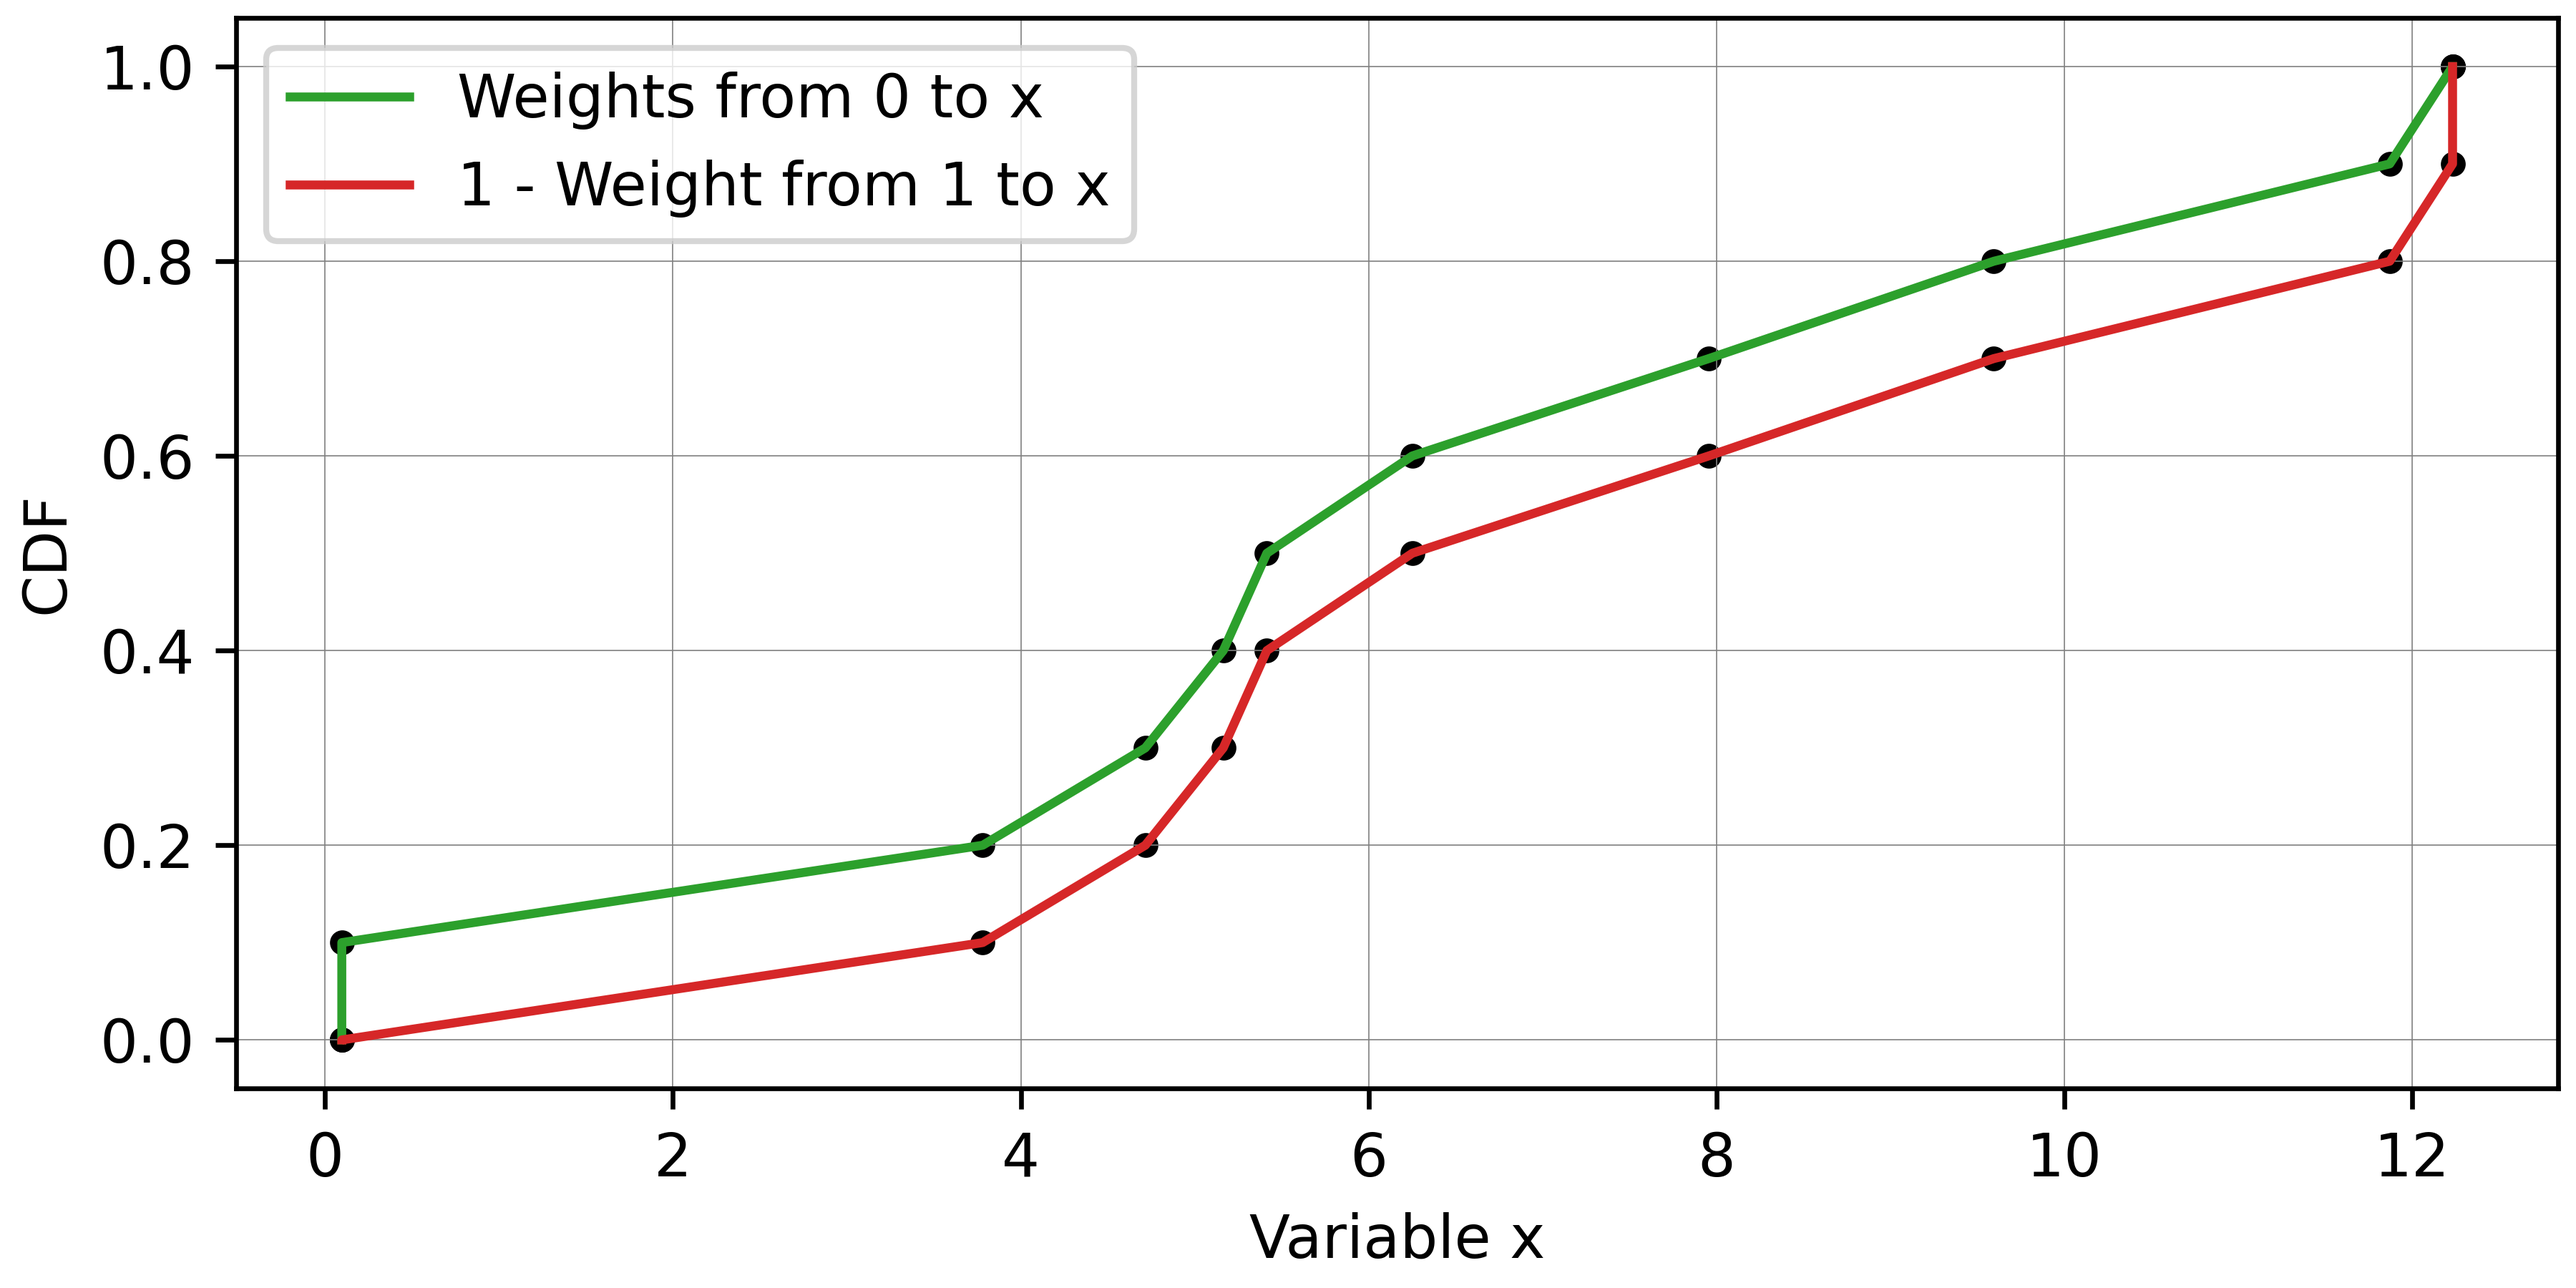
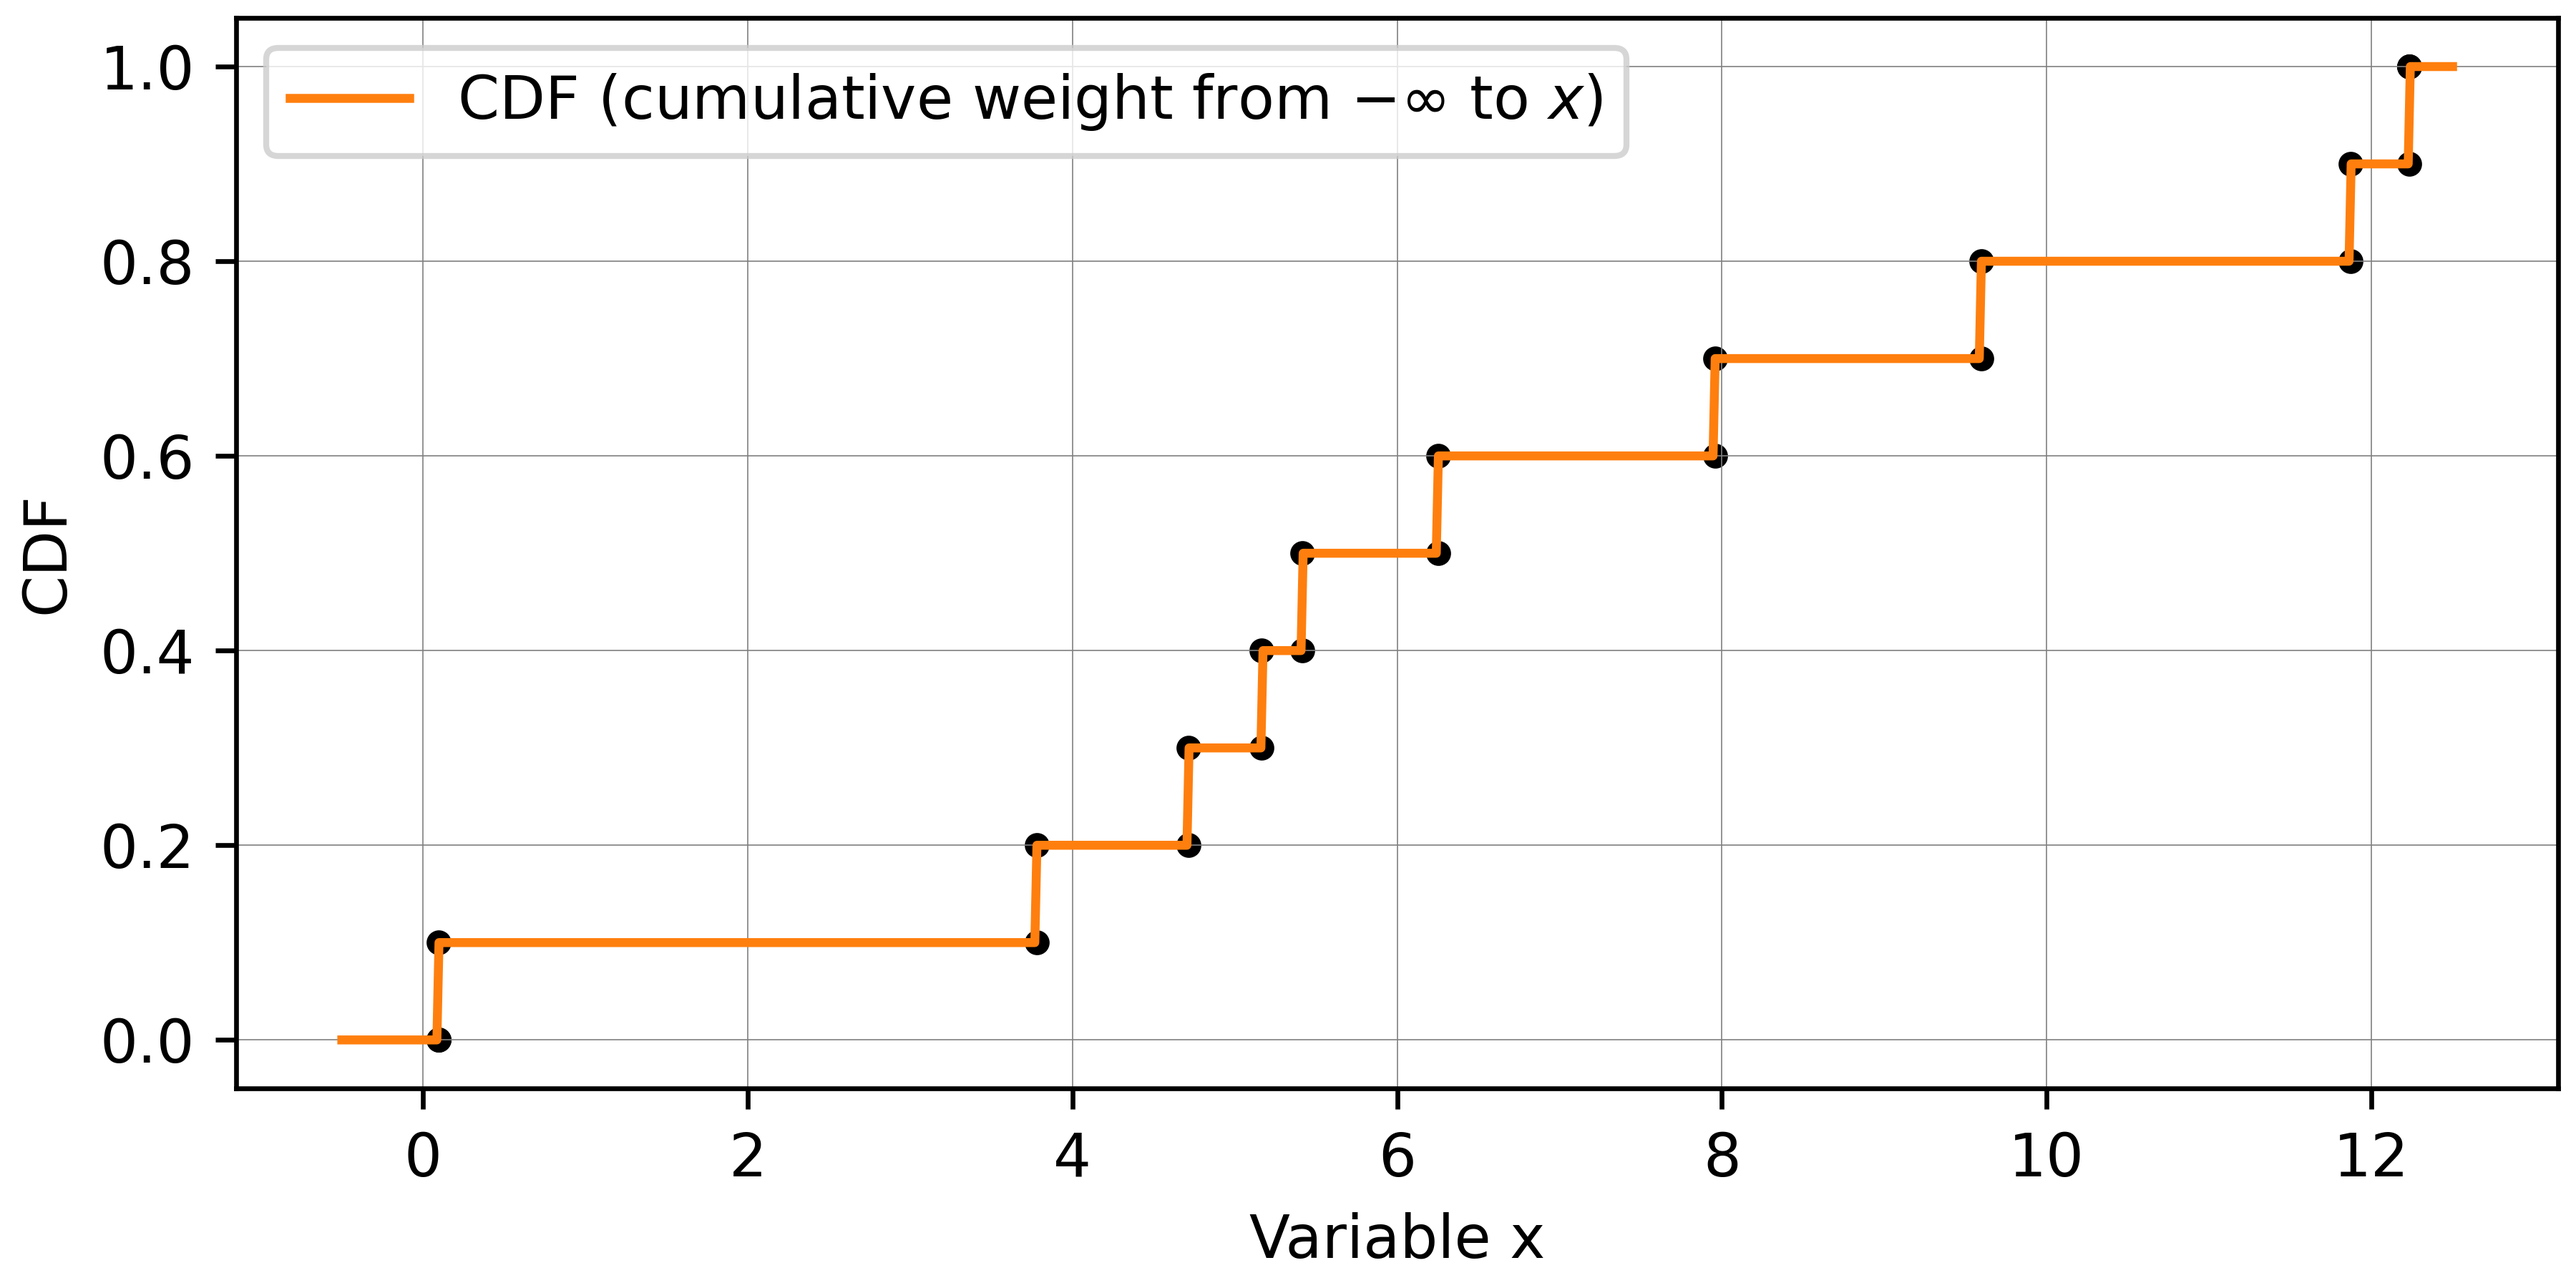
Checking CDF approximations

diff --git a/examples.py b/examples.py
@@ -5,7 +5,26 @@ import scipy.optimize as sop
 import numpy as np
 cdefault = plt.rcParams['axes.prop_cycle'].by_key()['color']
 
+import numpy as np
+from scipy.interpolate import interp1d
+from scipy.optimize import minimize_scalar
+import anesthetic
 
+def myiCDF(samples, weights=None):
+    weights = np.ones(len(samples)) if weights is None else weights
+    # Sort and normalize
+    order = np.argsort(samples)
+    samples = np.array(samples)[order]
+    weights = np.array(weights)[order]/np.sum(weights)
+    # Compute inverse cumulative distribution function
+    cumsum = np.cumsum(weights)
+    S = np.array([np.min(samples), *samples, np.max(samples)])
+    CDF = np.append(np.insert(np.cumsum(weights), 0, 0), 1)
+    invCDF = interp1d(CDF, S)
+    return invCDF
+
+def anestiCDF(samples, weights=None):
+    return anesthetic.utils.cdf(samples, weights=weights, inverse=True)
 #Code
 def credibility_interval(samples, weights=None, level=0.68):
     assert level<1, "Level >= 1!"
@@ -22,14 +41,36 @@ def credibility_interval(samples, weights=None, level=0.68):
     # Find smallest interval
     distance = lambda Y, level=level: invCDF(Y+level)-invCDF(Y)
     res = sop.minimize_scalar(distance, bounds=(0, 1-level), method="Bounded")
-    #res = sop.minimize(distance, (1-level)/2, bounds=[(0,1-level)], method="Nelder-Mead")
     return np.array([invCDF(res.x), invCDF(res.x+level)])
 
 
 # Generate data, small example
 np.random.seed(1)
 data = np.random.normal(loc=7, scale=3, size=10)
-weights = np.ones(len(data))/len(data)
+data.sort()
+weights = np.ones(10)
+#weights = np.random.normal(loc=7, scale=3, size=10)
+weights /= np.sum(weights)
+
+# Plot data v1
+fig, ax = plt.subplots(constrained_layout=True, figsize=(6, 3))
+ax.set_title("Histogram")
+ax.set_ylabel("Data samples")
+ax.set_xlabel("Variable x")
+for d in data:
+    ax.set_ylim(0, 1.65)
+    ax.axvline(d, ymin=0, ymax=1/1.65, color="black", lw=2)
+    ax.scatter(d, 0.5)
+
+for i in range(5):
+    left = data[0]+0.1 + (data[1]-data[0]-0.2)*i/4
+    right = data[8]-0.1 - (data[8]-data[7]-0.2)*i/4
+    ax.plot([left, right], [1.1+0.1*i]*2, lw=3, color=cdefault[1])
+ax.text(np.mean(data[[1,7]]), 1.52, 'Containing 70% of the data',
+    verticalalignment='bottom', horizontalalignment='center',
+    color=cdefault[1], fontsize=10)
+plt.savefig("illustrations/low_sample_example_1.png", dpi=600)
+plt.show()
 
 # Plot data
 fig, ax = plt.subplots(constrained_layout=True, figsize=(6, 3))
@@ -37,20 +78,20 @@ ax.set_title("Histogram")
 ax.set_ylabel("Number of samples")
 ax.set_xlabel("Variable x")
 for d in data:
-	ax.set_ylim(0, 1.5)
-	ax.axvline(d, ymin=0, ymax=2/3, color="black", lw=2)
-	ax.scatter(d, 0.5)
+    ax.set_ylim(0, 1.5)
+    ax.axvline(d, ymin=0, ymax=2/3, color="black", lw=2)
+    ax.scatter(d, 0.5)
 
 # Intervals
 data.sort()
 ax.plot(data[[1,6]], [1.1]*2, lw=3, color=cdefault[0])
 ax.text(np.mean(data[[1,6]]), 1.12, 'Containing 60% of the data',
-	verticalalignment='bottom', horizontalalignment='center',
-	color=cdefault[0], fontsize=8)
+    verticalalignment='bottom', horizontalalignment='center',
+    color=cdefault[0], fontsize=8)
 ax.plot(data[[1,7]], [1.3]*2, lw=3, color=cdefault[1])
 ax.text(np.mean(data[[1,7]]), 1.32, 'Containing 70% of the data',
-	verticalalignment='bottom', horizontalalignment='center',
-	color=cdefault[1], fontsize=8)
+    verticalalignment='bottom', horizontalalignment='center',
+    color=cdefault[1], fontsize=8)
 
 # Uncertainty arrows
 a = data[6]
@@ -58,60 +99,46 @@ b = data[7]
 c = data[1]
 ax.arrow(a+(b-a)/2, 1.2, (b-a)/2, 0, length_includes_head=True, color=cdefault[2], head_width=0.025, head_length=0.2, lw=2, zorder=2)
 ax.arrow(a+(b-a)/2, 1.2, (a-b)/2, 0, length_includes_head=True, color=cdefault[2], head_width=0.025, head_length=0.2, lw=2, zorder=2)
-ax.arrow(a, 0.8, 0.5, 0, length_includes_head=True, color=cdefault[3], head_width=0.025, head_length=0.2, lw=2, zorder=-2)
-ax.arrow(a, 0.8, -0.5, 0, length_includes_head=True, color=cdefault[3], head_width=0.025, head_length=0.2, lw=2, zorder=-2)
-ax.arrow(b, 0.8, 0.5, 0, length_includes_head=True, color=cdefault[3], head_width=0.025, head_length=0.2, lw=2, zorder=-2)
-ax.arrow(b, 0.8, -0.5, 0, length_includes_head=True, color=cdefault[3], head_width=0.025, head_length=0.2, lw=2, zorder=-2)
-ax.arrow(c, 0.8, 0.5, 0, length_includes_head=True, color=cdefault[3], head_width=0.025, head_length=0.2, lw=2, zorder=-2)
-ax.arrow(c, 0.8, -0.5, 0, length_includes_head=True, color=cdefault[3], head_width=0.025, head_length=0.2, lw=2, zorder=-2)
 
-plt.savefig("illustrations/low_sample_example.png", dpi=600)
-plt.close()
-
-# Reconsider common-sense
-fig, ax = plt.subplots(constrained_layout=True, figsize=(6, 3))
-ax.set_title("Histogram")
-ax.set_ylabel("Number of samples")
-ax.set_xlabel("Variable x")
-for d in data:
-    ax.set_ylim(0, 1.5)
-    ax.axvline(d, ymin=0, ymax=1/1.5, color="black", lw=2)
-    ax.scatter(d, 0.5)
-
-ax.plot(data[[1,7]], [1.25]*2, lw=3, color=cdefault[1])
-ax.plot([data[0]+0.1, data[8]-0.1], [1.3]*2, lw=3, color=cdefault[1])
-ax.plot([data[1], data[8]], [1.15]*2, lw=3, color=cdefault[2])
-ax.text(np.mean(data[[1,7]]), 1.32, 'Containing 70% of the data',
-    verticalalignment='bottom', horizontalalignment='center',
-    color=cdefault[1], fontsize=8)
-
-plt.savefig("illustrations/low_sample_example_v2.png", dpi=600)
-plt.close()
+plt.savefig("illustrations/low_sample_example_2.png", dpi=600)
+plt.show()
 
 
 
 data.sort()
 # Note: Data and weights are already sorted here, and weights are normalized
 cumsum = np.cumsum(weights)
+cumsum_rev = np.cumsum(weights[::-1])
 CDF_x = np.array([np.min(data), *data, np.max(data)])
 CDF_y = np.array([0, *cumsum, 1])
+CDF_y_rev = np.array([0, *cumsum_rev, 1])
 CDF = sip.interp1d(CDF_x, CDF_y)
 invCDF = sip.interp1d(CDF_y, CDF_x)
 
+def trueCDF(a,b):
+    inter = np.logical_and(data>=a, data<=b)
+    return np.sum(weights[inter])
 
 
 # Plot CDF
+wpct = interp1d(data, (weights.cumsum()-weights/2)/weights.sum())
+#xplot = np.linspace(np.min(data),np.max(data),1000)
+xplot = np.linspace(-0.5,12.5,1000)
 fig, ax = plt.subplots(constrained_layout=True, figsize=(6, 3))
-ax.plot(CDF_x, CDF_y, label="Weights from 0 to x", color=cdefault[2])
-ax.plot(CDF_x[::-1], 1-CDF_y, label="1 - Weight from 1 to x", color=cdefault[3])
+#ax.plot(CDF_x, CDF_y, label="Weights from 0 to x", color=cdefault[2])
+ax.plot(xplot, [trueCDF(-100, x) for x in xplot], label=r"CDF (cumulative weight from $-\infty$ to $x$)", color=cdefault[1])
+#ax.plot(xplot, [1-trueCDF(x, 100) for x in xplot], label="TrueCDF x to inf", color=cdefault[5])
+#ax.plot(CDF_x[::-1], 1-CDF_y_rev, label=r"1 - Weight from $\infty$ to x", color=cdefault[3])
+#ax.plot(xplot, anesthetic.utils.cdf(data)(xplot), label="anesthetic cdf", color=cdefault[0])
+#ax.plot(xplot, wpct(xplot), label="wpct", color=cdefault[4])
 ax.grid(color="grey", lw=0.2)
 ax.scatter(CDF_x, CDF_y, color="black", s=10)
-ax.scatter(CDF_x[::-1], 1-CDF_y, color="black", s=10)
+ax.scatter(CDF_x[::-1], 1-CDF_y_rev, color="black", s=10)
 ax.legend()
 ax.set_ylabel("CDF")
 ax.set_xlabel("Variable x")
 plt.savefig("illustrations/CDF_illustration.png", dpi=600)
-plt.close()
+plt.show()
 
 # CDF y-level scanning
 a,b = credibility_interval(data)
@@ -141,7 +168,7 @@ ax.legend()
 ax.set_ylabel("CDF")
 ax.set_xlabel("Variable x")
 plt.savefig("illustrations/CDF_distances.png", dpi=600)
-plt.close()
+plt.show()
 
 
 # Reconsider common-sense
@@ -166,7 +193,7 @@ ax.text(np.mean(data[[1,7]]), 1.47, '68% interval from CDF-interpolation',
     verticalalignment='bottom', horizontalalignment='center',
     color=cdefault[3], fontsize=8)
 plt.savefig("illustrations/low_sample_again.png", dpi=600)
-plt.close()
+plt.show()
 
 
 
@@ -177,6 +204,25 @@ plt.close()
 # Generate data, large example
 np.random.seed(2)
 data = np.random.normal(loc=7, scale=3, size=1000)
+
+
+# Plot data
+fig, ax = plt.subplots(constrained_layout=True, figsize=(6, 3))
+ax.hist(data, color="black", bins=50, range=[-4, 20], label="Samples")
+ax.set_title("Histogram")
+ax.set_ylabel("Number of samples")
+ax.set_ylim(0, 80)
+ax.set_xlim(-4, 20)
+xplot=np.linspace(-10, 30, 1000)
+ax.plot(xplot, 1000/(50/24)*sst.norm.pdf(xplot, loc=7, scale=3), color=cdefault[0], lw=2, label="True distribution")
+ax.axvline(7-3, ymax=1000/(50/24)*sst.norm.pdf(7-3, loc=7, scale=3)/80, lw=2, ls=":", color=cdefault[0])
+ax.axvline(7+3, ymax=1000/(50/24)*sst.norm.pdf(7+3, loc=7, scale=3)/80, lw=2, ls=":", color=cdefault[0])
+c1,c2 = credibility_interval(data)
+ax.axvline(c1, ymax=1, lw=2, ls="-", color=cdefault[1], label="68% of samples")
+ax.axvline(c2, ymax=1, lw=2, ls="-", color=cdefault[1])
+ax.legend()
+plt.savefig("illustrations/high_sample_example.png", dpi=600)
+plt.show()
 
 
 # Plot data
@@ -203,7 +249,7 @@ ax["right"].hist(data, color="black", bins=100, range=[9, 11])
 ax["right"].set_xlim(9, 11)
 ax["right"].axvline(c2, ymax=1, lw=2, ls="-", color=cdefault[1])
 
-plt.savefig("illustrations/high_sample_example.png", dpi=600)
+plt.savefig("illustrations/high_sample_example_mosaic.png", dpi=600)
 plt.close()
 
 # Chi2 distribution example of HDPI vs quantiles

diff --git a/README.md b/README.md
@@ -17,22 +17,29 @@ In terms of types of intervals, there are 3 types of credible interval I see oft
 ![illustration](https://github.com/Stefan-Heimersheim/fastCI/blob/main/illustrations/mean-centered-interval.png?raw=true)
 (Note: The interval happens to look similar to the previous one, this is a coincidence and not generally true.)
 
-## Computing the iso-pdf interval efficiently
+## Sample-based iso-pdf/HDP interval
 Common methods rely on interpolating the probability density function (PDF) via kernel density estimation (KDE) to derive the credible interval. This (a) introduces a dependency on the KDE used, and (b) is often quite slow, especially for large sample sizes.
 
-Instead, we can use the samples themselves to derive this interval, realizing that iso-pdf and HPD are independent, and HPD does not require an interpolated PDF. Here is an example of a Normal distribution, along with a histogram of 1000 samples and the 68% HPD interval derived from these samples:
+Instead, we can use the samples themselves to derive this interval, realizing that iso-pdf and HPD are equivalent, and HPD does not require an interpolated PDF. Here is an example of a Normal distribution, along with a histogram of 1000 samples and the 68% HPD interval derived from these samples:
 ![example histogram](https://github.com/Stefan-Heimersheim/fastCI/blob/main/illustrations/high_sample_example.png?raw=true)
 
-To understand how, let us look at this smaller 10-sample demonstration. Starting with common sense, we can already see what the smallest intervals containing 60 and 70% of the data are, i.e. these are the respective HPD intervals. We also notice possible uncertainties, coming from (a) the precise number (68%) not matching the availble fractions (green arrow, 10 points -> 50%, or 60%, or 70% etc.), and from (b) the concrete realization of the data (red arrows, the position of those data points was somewhat random).
-![low-sample example](https://github.com/Stefan-Heimersheim/fastCI/blob/main/illustrations/low_sample_example.png?raw=true)
+### Possible biases with low sample density
+There are two issues to be aware of when the sample density is low:
 
-Also, this feels a bit _unfair_, including points exactly at the edges of the intervals. And with _unfair_ I mean it's relying on the low sample size and probably underestimating the interval size. We could also choose these intervals differently (looking at 70% only now):
-![low-sample example-v2](https://github.com/Stefan-Heimersheim/fastCI/blob/main/illustrations/low_sample_example_v2.png?raw=true)
-The green line seems like a fair middle ground, extending the one side but not the other -- and choosing the steeper side to extend to aim for the highest posterior denity.
+1. There are many intervals we can draw all including the same samples. The HPD would be the narrowest of these intervals, but intuitively we can see that this is an unusually small interval
+![example histogram](https://github.com/Stefan-Heimersheim/fastCI/blob/main/illustrations/high_sample_example_1.png?raw=true)
 
-Now to the way to (quickly) calculate this. Key is that, for any start point of an interval `a`, we can easily find the end point `b` that makes `[a,b]` the, say, 68% confidence interval. The cumulative density function (CDF) gives us the probability volume, so we want to fulfill `CDF(b) - CDF(a) = 68%`. Since we have discrete samples we can easily calculate the CDF (`np.cumsum`) and invert it to get the inverse CDF.
+2. With e.g. 10 samples, we can only compute credibility intervals in 10% steps, we cannot read off 68% of 10 samples, just 60% or 70%
+![example histogram](https://github.com/Stefan-Heimersheim/fastCI/blob/main/illustrations/high_sample_example_2.png?raw=true)
+
+
+### The Cumulative Density Function
+We can actually easily and efficiently compute the HPD interval using the Cumulative Density Function (CDF). Key is that, for any start point of an interval `a`, we can easily find the end point `b` that makes `[a,b]` the, say, 68% confidence interval. The CDF gives us the cumulative probability to some point `x`, so we want to fulfill `CDF(b) - CDF(a) = 68%`. Since we have discrete samples we can easily calculate the CDF (`np.cumsum`).
 ![CDF](https://github.com/Stefan-Heimersheim/fastCI/blob/main/illustrations/CDF_illustration.png?raw=true)
-Note that there are two ways to compute this, from 0 or from 1, but the lines are equivalent since we only look at differences between two points of the CDF, not the absolute value.
+
+Todo: Interpolation?
+
+---
 
 Now we can get the interval boundary `b` corresponding to `a` containing 68% of the probability volume as `b = invCDF(CDF(a) + 0.68)`. In practice we can optimize over `Y = CDF(a)` such that `b - a = invCDF(Y+0.68) - invCDF(Y)` is mimized.
 
